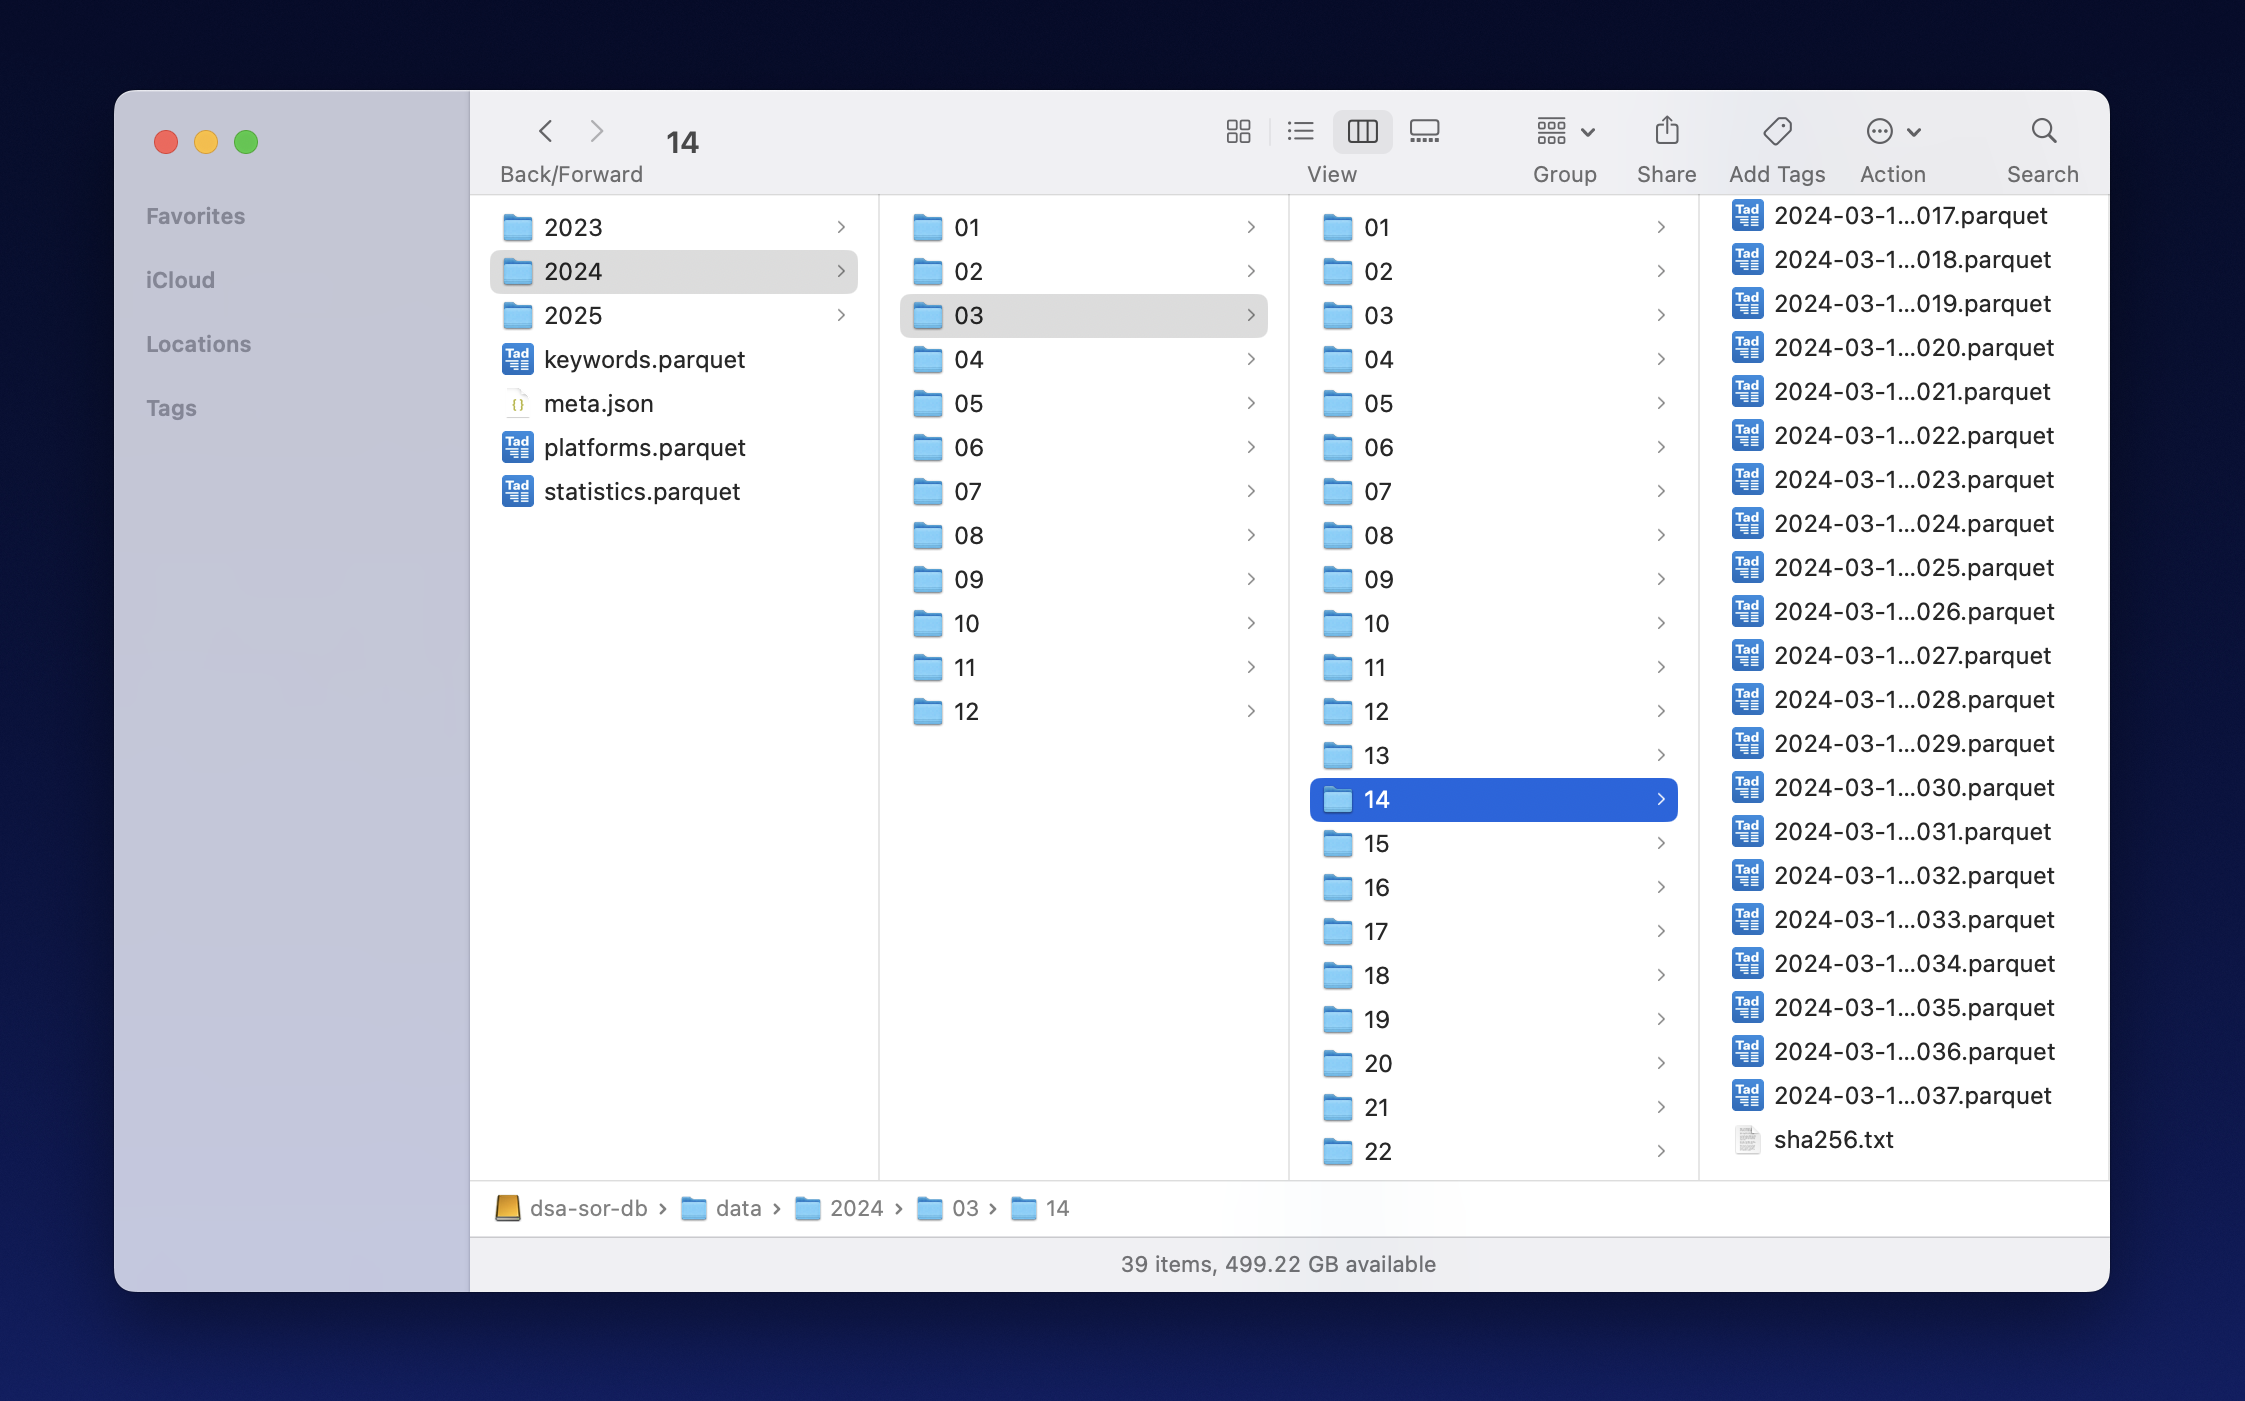
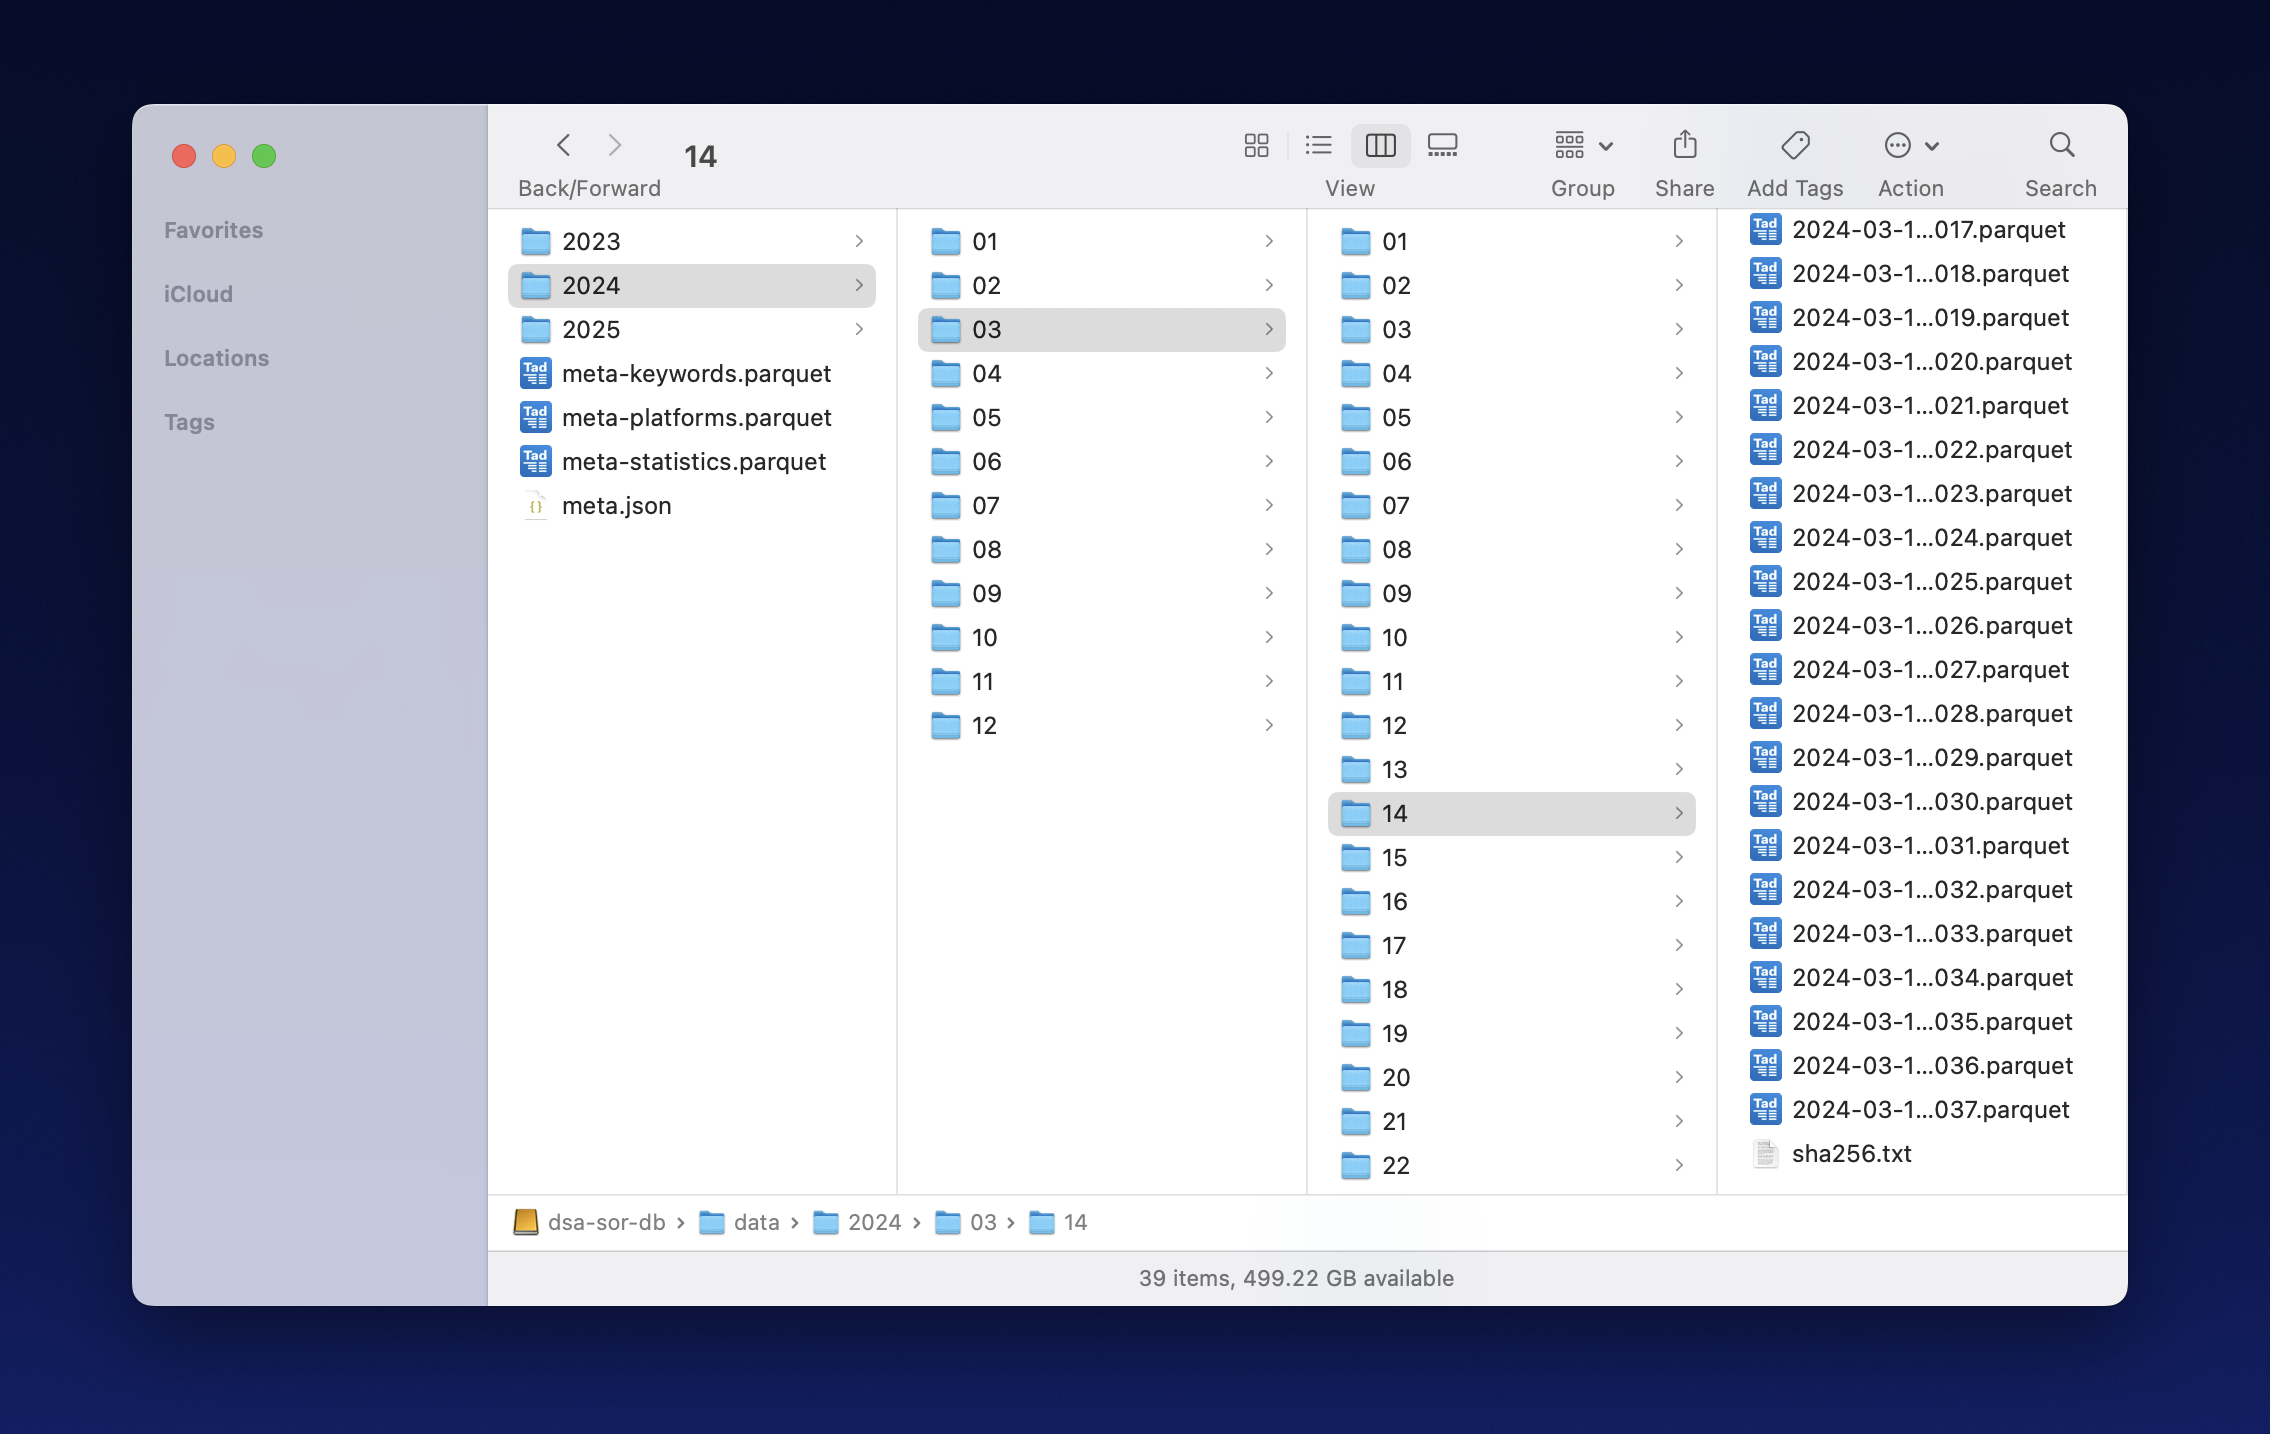
improve meta file names and update screenshot

Changed region(s): [[0.0312, 0.0614, 0.9666, 0.9208]]

diff --git a/shantay/dsa_sor.py b/shantay/dsa_sor.py
@@ -9,7 +9,7 @@ import polars as pl
 from .collector import Collector
 from .model import (
     Coverage, Daily, Dataset, KEYWORDS_FILE, MetadataEntry, PLATFORMS_FILE, Release,
-    STATS_FILE
+    STATISTICS_FILE
 )
 from .progress import NO_PROGRESS, Progress
 from .schema import (
@@ -403,7 +403,7 @@ class StatementsOfReasons(Dataset[Daily]):
         for key, frame in collector.consume_frames():
             if key == "stats":
                 summary[key] = frame
-                self.write_parquet(frame, root / STATS_FILE)
+                self.write_parquet(frame, root / STATISTICS_FILE)
             elif key == "keywords":
                 summary[key] = (
                     frame.select(pl.exclude("year", "month"))

diff --git a/shantay/model.py b/shantay/model.py
@@ -410,7 +410,7 @@ def _days_in_month(year: int, month: int) -> int:
 META_FILE = "meta.json"
 KEYWORDS_FILE = "meta-keywords.parquet"
 PLATFORMS_FILE = "meta-platforms.parquet"
-STATS_FILE = "meta-statistics.parquet"
+STATISTICS_FILE = "meta-statistics.parquet"
 DIGEST_FILE = "sha256.txt"
 
 
